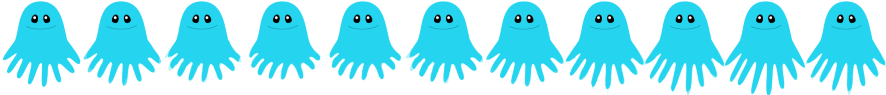
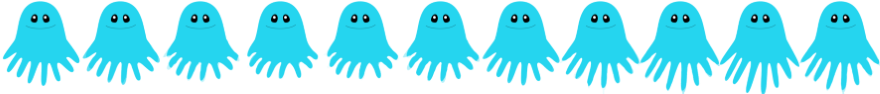
Changed DragLayer

diff --git a/src/News.js b/src/News.js
@@ -1,44 +1,103 @@
 import React from "react";
 import { DragSource } from "react-dnd";
 import styled from "styled-components";
+import throttle from './throttle.js';
 
 const Container = styled.div`
   position: absolute;
-  background: url("/public/item.png");
-  width: 71px;
-  height: 88px;
+  background: url("/public/item.png") no-repeat;
+  width: 80px;
+  height: 94px;
   background-size: cover;
-  align-self: center;
-  padding: 0.5rem;
-
   z-index: 10;
+  transition: all background 0s;
   & > p {
     font-weight: bold;
     font-size: 16px;
     border-radius: 10px;
     text-align: center;
-    margin: 30px 0 0 14px;
+    margin: 35px 0 0 20px;
     padding: 1px 0 0 0;
     width: 42px;
     height: 20px;
     background: white;
     color: black;
   }
-  background-position: -92px;
-  animation: animateditem 0.6s steps(11) infinite;
-   @keyframes animateditem {
-  100% { background-position: 880px; }
-}
-
+ 
   ${p => p.error ? `background-position: -46px;` : ""};
-  transition: all 0.7s ease-in-out;
-  ${p => (`animation: jump_${p.id} 2s infinite`)};
-
   ${p => ( p.isDragging ? `display:none;` : "display:flex")};
   ${p => (!p.isDragging ? "top:" + p.width + "px" : null)};
-  ${p => (!p.isDragging ? "left:" + p.height + "%" : null)};
-
+  ${p => (!p.isDragging ? "left:" + p.height + "px" : null)};
 `;
+function generatePlaceholder(item) {
+  console.log(item);
+  const placeholder = document.createElement('div');
+  placeholder.id = 'drag-placeholder';
+  placeholder.style.cssText =
+    'display:none;position:fixed;z-index:100000;pointer-events:none;';
+  
+  placeholder.innerHTML = ReactDOMServer.renderToStaticMarkup(<SubjectContent { ...item } />);
+  return placeholder;
+}
+
+function createMouseMoveHandler() {
+  let currentX = -1;
+  let currentY = -1;
+
+  return function(event) {
+    let newX = event.clientX - 8;
+    let newY = event.clientY - 2;
+
+    if (currentX === newX && currentY === newY) {
+      return;
+    }
+
+    const dragPlaceholder = document.getElementById('drag-placeholder');
+    const transform = 'translate(' + newX + 'px, ' + newY + 'px) rotate(3deg)';
+
+    dragPlaceholder.style.transform = transform;
+    dragPlaceholder.style.display = 'block';
+  };
+}
+
+const mouseMoveHandler = createMouseMoveHandler();
+
+const throttledMoveHandler = throttle(createMouseMoveHandler(), 16);
+
+const subjectSource = {
+  beginDrag(props, monitor, component) {
+    document.addEventListener('dragover', throttledMoveHandler);
+    document.body.insertBefore(
+      generatePlaceholder(props),
+      document.body.firstChild
+    );
+    return props;
+  },
+  endDrag(props, monitor, component) {
+    document.removeEventListener('dragover', throttledMoveHandler);
+    let child = document.getElementById('drag-placeholder');
+    child.parentNode.removeChild(child);
+
+    if (!monitor.didDrop()) {
+      return;
+    }
+    const item = monitor.getItem();
+    const dropResult = monitor.getDropResult();
+
+    props.moveSubject(item.data.ID, {
+      day: dropResult.xPos,
+      period: dropResult.yPos,
+    });
+  },
+};
+
+function collect(connect, monitor) {
+  return {
+    connectDragSource: connect.dragSource(),
+    isDragging: monitor.isDragging(),
+    connectDragPreview: connect.dragPreview(),
+  };
+}
 
 @DragSource(
   "NEWS_ITEM",
@@ -65,7 +124,6 @@ class News extends React.Component {
 
     return connectDragSource(
       <div style={{ display: "flex" }}>
-
         <Container error={error} isDragging={isDragging} width={width} height={height} id={id}>
           <p>{id}</p>
         </Container>
@@ -73,5 +131,4 @@ class News extends React.Component {
     );
   }
 }
-
-export default News;
+export default DragSource('subjectItem', subjectSource, collect)(News);

diff --git a/src/GridDragLayer.js b/src/GridDragLayer.js
@@ -19,7 +19,7 @@ function getItemTransform(props) {
   }
 
   const { x, y } = currentOffset;
-  const transform = `translate(${x+props.item.height}px, ${y}px)`;
+  const transform = `translate(${x+props.item.height-15}px, ${y+props.item.width+35}px)`;
   return {  
     position: 'fixed', 
     display: 'block',
@@ -32,6 +32,21 @@ function getItemTransform(props) {
 class GridDragLayer extends Component {
   constructor(props) {
     super(props);
+    this.lastUpdate = +new Date();
+    this.updateTimer = null;
+  }
+
+  shouldComponentUpdate(nextProps, nextState) {
+    if (+new Date() - this.lastUpdate > 16) {
+      this.lastUpdate = +new Date();
+      clearTimeout(this.updateTimer);
+      return true;
+    } else {
+      this.updateTimer = setTimeout(() => {
+        this.forceUpdate();
+      }, 100);
+    }
+    return false;
   }
 
 render() {

diff --git a/src/NewsAccumulator.js b/src/NewsAccumulator.js
@@ -11,7 +11,7 @@ const Container = styled.div`
   width: 347px;
   height: 379px;
   transition: background 0s, transform 3s ease-in-out;
-
+  z-index: 1;
   ${p => p.isOver ? `background-position: -347px;` : ``}
   ${p => p.finish ? `transform: translateY(-300%) translateX(300%) rotate(80deg);` : ``}
   ${p => p.finish ? (`background: url('https://content.uchi.ru/27398/930/31.png') no-repeat;`) : ``}
@@ -28,7 +28,7 @@ const List = styled.div`
 `;
 
 const NewsContainer = styled.div`
-    background: url("/public/selecteditem.png");
+  background: url("/public/selecteditem.png");
   width: 70px;
   height: 88px;
   background-position: 173px 0;

diff --git a/src/NewsAccumulator3.js b/src/NewsAccumulator3.js
@@ -11,7 +11,7 @@ const Container = styled.div`
   width: 380px;
   height: 185px;
   transition: background 0s, transform 3s ease-in-out;
-
+  z-index: 1;
   ${p => p.isOver ? `background-position: -380px;` : ``}
   ${p => p.finish ? `transform: translateY(-100%) translateX(300%) rotate(-40deg);` : ``}
   ${p => p.finish ? (`background: url('https://content.uchi.ru/27398/930/44.png') no-repeat;`) : ``}

diff --git a/src/NewsAccumulator2.js b/src/NewsAccumulator2.js
@@ -11,6 +11,7 @@ const Container = styled.div`
   width: 399px;
   height: 455px;
   transition: background 0s, transform 3s ease-in-out;
+  z-index: 1;
   ${p => p.isOver ? `background-position: -399px;` : ``}
   ${p => p.finish ? `transform: translateY(-300%) translateX(-300%) rotate(-80deg);` : ``}
   ${p => p.finish ? (`background: url('https://content.uchi.ru/27398/930/34.png') no-repeat;`) : ``}

diff --git a/src/Main.js b/src/Main.js
@@ -49,12 +49,12 @@ function rand(type) {
 
 function width(index)
 {
-   return 100 + (index%3*80) + Math.round(20 + Math.random() *50);
+   return 100 + (index%5*80) + Math.round(20 + Math.random() *50);
 }
 
 function height(index)
 {
-    return 300 + (index%5*80) + Math.round(Math.random() *20);
+    return 300 + (index%7*80) + Math.round(Math.random() *20);
 }
 
 const initialList = [

diff --git a/src/NewsList.js b/src/NewsList.js
@@ -19,8 +19,8 @@ class NewsList extends React.Component {
           <News
             key={id}
             id={id}
-            width={100+ (index%3*100) + Math.round(20 + Math.random() *50)}
-            height={33+(index%5*9)}
+            width={width}
+            height={height}
           />
         ))}
       </Container>
